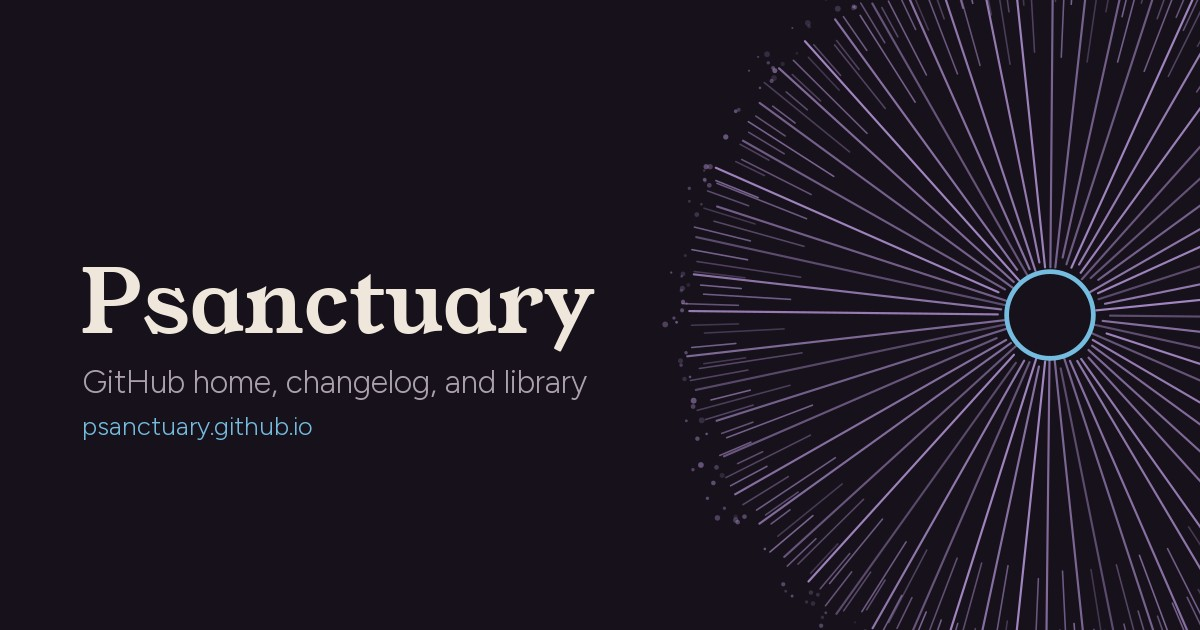
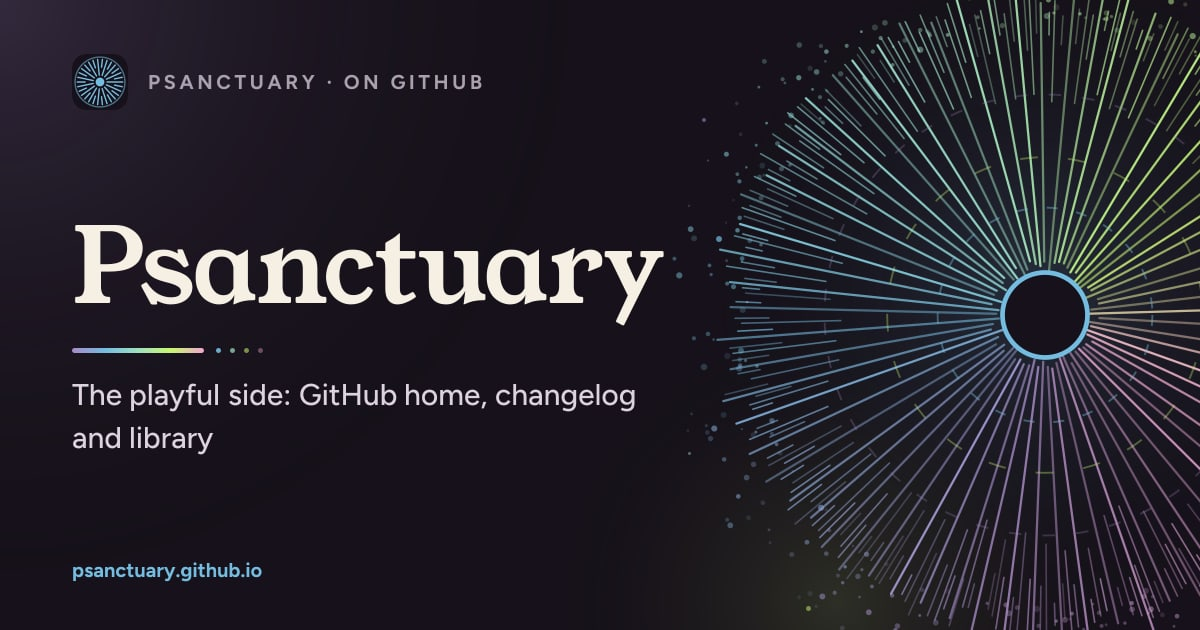
[P3] Portal: the prism share card, og images for /donate/ and /map/ from the AstroLog's page cards, people links from profile
social-card.jpg is now the playful side's prism spore print (rendered by the AstroLog's
spore-card.mjs, hero layout, no counts). /donate/ and /map/ use /og/page/donate.jpg and
/og/page/map.jpg. Kit 1.2.0 refresh: a person without a GitHub handle links from `profile`.

Changed region(s): [[0.0617, 0.0, 1.0, 1.0], [0.0, 0.0, 0.4008, 0.181], [0.0617, 0.8746, 0.2158, 0.9349]]

diff --git a/donate/index.html b/donate/index.html
@@ -14,7 +14,7 @@
 <meta property="og:url" content="https://psanctuary.github.io/donate/">
 <meta property="og:title" content="Donate — Psanctuary on GitHub">
 <meta property="og:description" content="Ways to give to Psanctuary, through psanctuary.org; a thank-you list for contributors who&#x27;d like to be named; and giving with crypto, coming soon.">
-<meta property="og:image" content="https://psanctuary.github.io/changelog-astro-public/og/site/donate.jpg">
+<meta property="og:image" content="https://psanctuary.github.io/changelog-astro-public/og/page/donate.jpg">
 <meta property="og:image:type" content="image/jpeg">
 <meta property="og:image:width" content="1200">
 <meta property="og:image:height" content="630">
@@ -22,7 +22,7 @@
 <meta name="twitter:card" content="summary_large_image">
 <meta name="twitter:title" content="Donate — Psanctuary on GitHub">
 <meta name="twitter:description" content="Ways to give to Psanctuary, through psanctuary.org; a thank-you list for contributors who&#x27;d like to be named; and giving with crypto, coming soon.">
-<meta name="twitter:image" content="https://psanctuary.github.io/changelog-astro-public/og/site/donate.jpg">
+<meta name="twitter:image" content="https://psanctuary.github.io/changelog-astro-public/og/page/donate.jpg">
 <meta name="twitter:image:alt" content="Give to Psanctuary: ways to give, and thanks by name.">
 <link rel="preconnect" href="https://fonts.googleapis.com">
 <link rel="preconnect" href="https://fonts.gstatic.com" crossorigin>

diff --git a/map/index.html b/map/index.html
@@ -14,7 +14,7 @@
 <meta property="og:url" content="https://psanctuary.github.io/map/">
 <meta property="og:title" content="Map — Psanctuary on GitHub">
 <meta property="og:description" content="Every place Psanctuary&#x27;s pages lead, each with a picture of where it goes: the portal, the AstroLog, the ways to get involved, and the church&#x27;s own site.">
-<meta property="og:image" content="https://psanctuary.github.io/changelog-astro-public/og/map.jpg">
+<meta property="og:image" content="https://psanctuary.github.io/changelog-astro-public/og/page/map.jpg">
 <meta property="og:image:type" content="image/jpeg">
 <meta property="og:image:width" content="1200">
 <meta property="og:image:height" content="630">
@@ -22,7 +22,7 @@
 <meta name="twitter:card" content="summary_large_image">
 <meta name="twitter:title" content="Map — Psanctuary on GitHub">
 <meta name="twitter:description" content="Every place Psanctuary&#x27;s pages lead, each with a picture of where it goes: the portal, the AstroLog, the ways to get involved, and the church&#x27;s own site.">
-<meta name="twitter:image" content="https://psanctuary.github.io/changelog-astro-public/og/map.jpg">
+<meta name="twitter:image" content="https://psanctuary.github.io/changelog-astro-public/og/page/map.jpg">
 <meta name="twitter:image:alt" content="Map of Psanctuary&#x27;s pages, beside a spore print.">
 <link rel="preconnect" href="https://fonts.googleapis.com">
 <link rel="preconnect" href="https://fonts.gstatic.com" crossorigin>

diff --git a/index.html b/index.html
@@ -18,12 +18,12 @@
 <meta property="og:image:type" content="image/jpeg">
 <meta property="og:image:width" content="1200">
 <meta property="og:image:height" content="630">
-<meta property="og:image:alt" content="Psanctuary: GitHub home, changelog, and library, beside a spore print with a bruise-blue stem ring.">
+<meta property="og:image:alt" content="Psanctuary on GitHub: the playful side, beside an iridescent spore print.">
 <meta name="twitter:card" content="summary_large_image">
 <meta name="twitter:title" content="Psanctuary on GitHub">
 <meta name="twitter:description" content="Psanctuary&#x27;s playful, decentralized side on GitHub: an entry portal, a public changelog, a library of how things are built, a map, and a way to give.">
 <meta name="twitter:image" content="https://psanctuary.github.io/social-card.jpg">
-<meta name="twitter:image:alt" content="Psanctuary: GitHub home, changelog, and library, beside a spore print with a bruise-blue stem ring.">
+<meta name="twitter:image:alt" content="Psanctuary on GitHub: the playful side, beside an iridescent spore print.">
 <link rel="preconnect" href="https://fonts.googleapis.com">
 <link rel="preconnect" href="https://fonts.gstatic.com" crossorigin>
 <link rel="stylesheet" href="https://fonts.googleapis.com/css2?family=Figtree:wght@400;500;600;700&family=Young+Serif&display=swap">

diff --git a/404.html b/404.html
@@ -21,12 +21,12 @@
 <meta property="og:image:type" content="image/jpeg">
 <meta property="og:image:width" content="1200">
 <meta property="og:image:height" content="630">
-<meta property="og:image:alt" content="Psanctuary: GitHub home, changelog, and library, beside a spore print with a bruise-blue stem ring.">
+<meta property="og:image:alt" content="Psanctuary on GitHub: the playful side, beside an iridescent spore print.">
 <meta name="twitter:card" content="summary_large_image">
 <meta name="twitter:title" content="Page not found — Psanctuary on GitHub">
 <meta name="twitter:description" content="This path doesn&#x27;t lead anywhere yet. The way back is below.">
 <meta name="twitter:image" content="https://psanctuary.github.io/social-card.jpg">
-<meta name="twitter:image:alt" content="Psanctuary: GitHub home, changelog, and library, beside a spore print with a bruise-blue stem ring.">
+<meta name="twitter:image:alt" content="Psanctuary on GitHub: the playful side, beside an iridescent spore print.">
 <link rel="preconnect" href="https://fonts.googleapis.com">
 <link rel="preconnect" href="https://fonts.gstatic.com" crossorigin>
 <link rel="stylesheet" href="https://fonts.googleapis.com/css2?family=Figtree:wght@400;500;600;700&family=Young+Serif&display=swap">

diff --git a/arrival/arrival.js b/arrival/arrival.js
@@ -1541,7 +1541,10 @@
       el.innerHTML =
         '<ul class="arr-people' + (compact ? " arr-people-compact" : "") + '">' +
         ix.people.map(function (p) {
-          var name = p.github ? '<a href="https://github.com/' + esc(p.github) + '">' + esc(p.name) + "</a>" : esc(p.name);
+          // A GitHub handle gives the picture and the link; someone shown with a generated avatar can
+          // still have a profile link (search.json: profile), so their name links too.
+          var href = p.github ? "https://github.com/" + p.github : /^https:\/\//.test(p.profile || "") ? p.profile : "";
+          var name = href ? '<a href="' + esc(href) + '">' + esc(p.name) + "</a>" : esc(p.name);
           return (
             "<li>" + avatarTag(p, compact ? 36 : 48) +
             '<span class="arr-person"><span class="arr-person-name">' + name + "</span>" +
